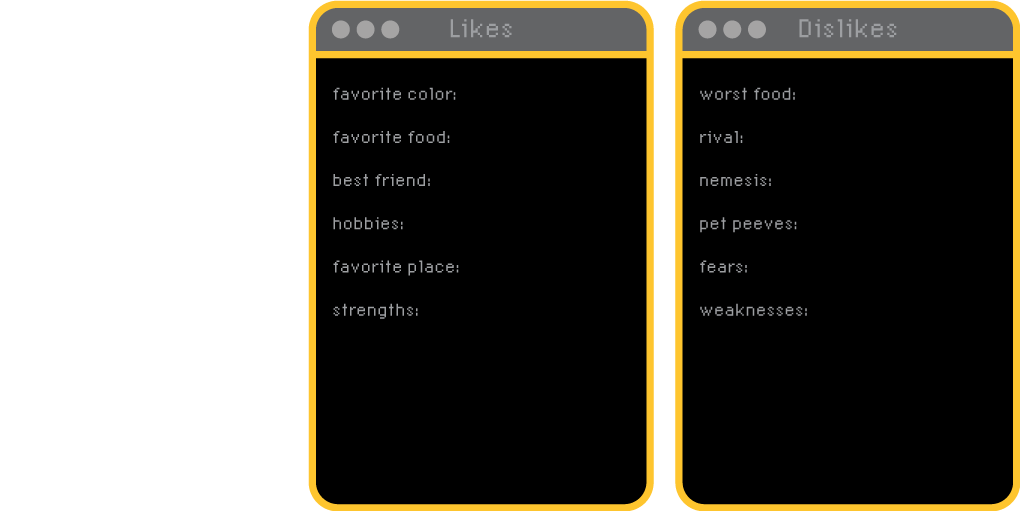
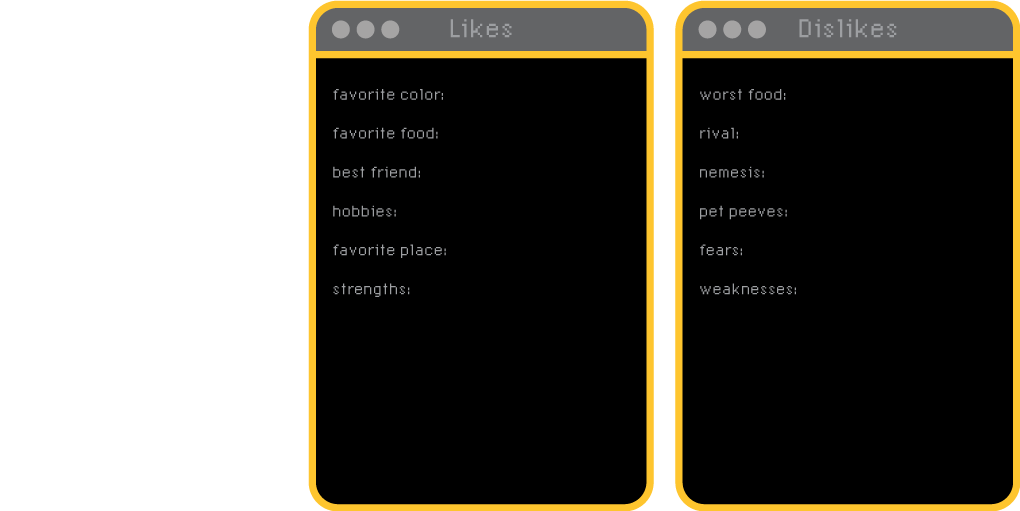
stats

diff --git a/0home.html b/0home.html
@@ -155,8 +155,12 @@
 		<div id="hover"><a href="#"><img src="images/stat_icon_text.png" alt="stat_icon" style="width:100%"></a></div>
 	</div>
 	<div id="text">
-		<img src="images/blank.png" alt="blank" style="width:100%" class="center">
+		<img src="images/stat_annotations.png" alt="stat_annotations" style="width:100%" class="center">
 	</div>
+</div>
+
+<div id="stat_windows">
+	<img src="images/stat_windows.png" alt="stat_windows" style="width:100%">
 </div>
 
 <div id="powers">
